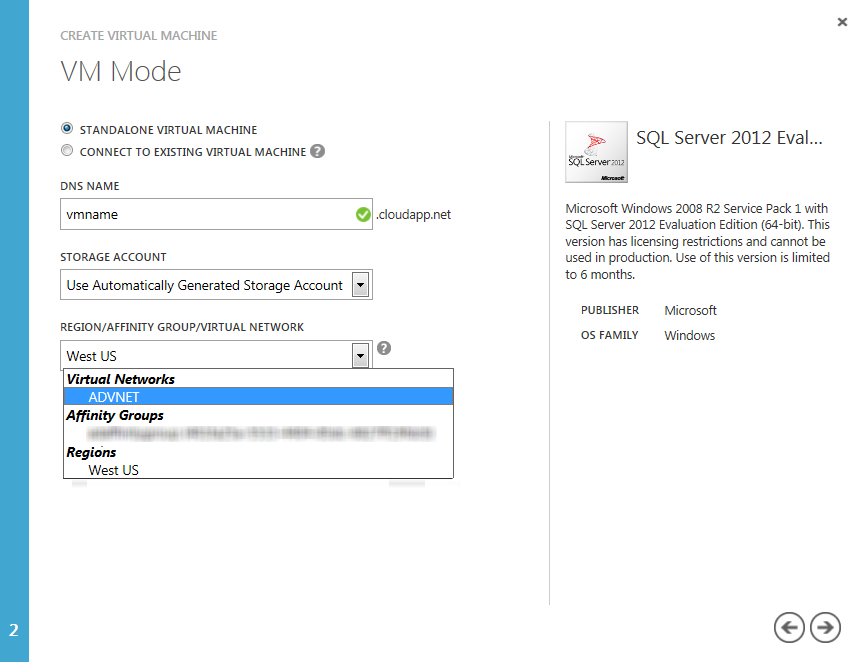
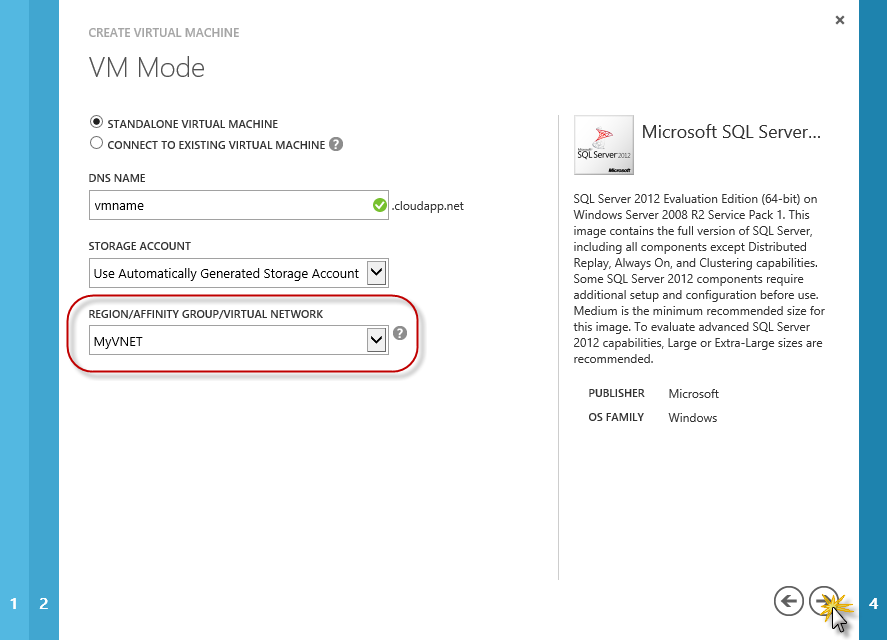
- Added section to create a virtual network.

Changed region(s): [[0.0, 0.0, 0.5436, 1.0], [0.6341, 0.0, 1.0, 1.0], [0.7549, 0.5938, 0.8153, 0.6562]]

diff --git a/HOL.md b/HOL.md
@@ -44,6 +44,49 @@ This hands-on lab includes the following exercises:
  
 Estimated time to complete this lab: **45 minutes**.
 
+<a name="GettingStarted"></a>
+### Getting Started - Configuring Virtual Networking ###
+
+For this lab, you will define a virtual network where you can assign the virtual machines to specific subnets. 
+
+<a name="Ex1Task1" />
+#### Task 1 - Creating an Affinity Group ####
+
+The first task is to create an affinity group for the Virtual Network.
+
+1. Open a browser a go to https://manage.windowsazure.com. When prompted, login with your **Windows Azure** credentials. In the Windows Azure portal, click **Networks**, **Affinity Groups** and at the bottom click **Create**.
+
+1. Name the affinity group _myag_, include a description and select a **Region**. Click the button to create the affinity group.
+
+	![Creating an Affinity Group](images/creating-an-affinity-group.png?raw=true)
+
+	_Creating an Affinity Group_
+
+<a name="Ex1Task2" />
+#### Task 2 - Creating a new Virtual Network ####
+
+The next step is to create a new virtual network to your subscription.
+
+1. In the Windows Azure Portal, click **Networks**, **Virtual Networks** and at the bottom click **Create**.
+
+1. Set a Name for the virtual network, for example _MyVNET_ along with the description and click the arrow button to continue.
+
+	![creating a new virtual network](images/creating-a-new-virtual-network.png?raw=true)
+
+	_Creating a new virtual network_
+
+1. Set the **Address Space** value to _192.168.0.0/16_ and add a subnet named _AppSubnet_ with a prefix of _192.168.1.0/24_.
+
+	![Adding an address space and subnets](images/adding-an-address-space-and-subnets.png?raw=true)
+
+	_Adding an address space and subnets_
+
+1. Leave default settings for DNS and click the finish button.
+
+	![Creating the Virtual Network](images/creating-the-virtual-network.png?raw=true "Creating the Virtual Network")
+
+	_Creating the Virtual Network_
+
 <a name="Exercise1" />
 ### Exercise 1: Creating a SQL Server VM ###
 
@@ -70,19 +113,23 @@ In this task, you will create a new Virtual Machine using the Windows Azure Port
 
 	![VM Configuration](images/vm-configuration.png?raw=true "VM Configuration")
  
-	_VM Configuration_
+	_Virtual Machine Configuration_
 
-1. In the **VM Mode** page, select **Standalone Virtual Machine** option, then a unique name for the **DNS Name**. Finally, select the **ADVNET** Virtual Network from the **Region/Affinity Group/Virtual Network** list and click **Next**.
+1. In the **VM Mode** page, select **Standalone Virtual Machine** option, then a unique name for the **DNS Name**. Finally, select the Virtual Network you created before, from the **Region/Affinity Group/Virtual Network** list and click **Next**.
 
 	![Selecting VM mode](images/selecting-vm-mode.png?raw=true "Selecting VM mode")
 
-1. In the **VM Options** page, select the **APPSUBNET** virtual network subnet and click the finish button to create the new VM
+	_Setting the Virtual Machine Mode_
+
+1. In the **VM Options** page, select the **APPSUBNET** virtual network subnet and click the finish button to create the new VM.
 
 	![VM Options](images/vm-options.png?raw=true "VM Options")
 
-	_VM Options_
+	_Setting the Virtual Machine Options_
 
-1. In the **Virtual Machines** section, you will see the Virtual Machine you created displaying a _provisioning_ status. Wait until it changes to _On_ in order to continue.
+1. In the **Virtual Machines** section, you will see the Virtual Machine you created displaying a _provisioning_ status. Wait until it changes to _Running_ in order to continue.
+
+	> **Note:** It will take from 8 to 10 minutes for the Virtual Machine to complete the provisioning process.
 
 <a name="Ex1Task2" />
 #### Task 2 - Configuring SQL Server 2012 Instance ####
@@ -287,7 +334,7 @@ In this task, you will change the connection string to point to the SQL Server i
 	````XML
 	<connectionStrings>
 		<add name="DefaultConnection" connectionString="Data Source=192.168.2.4;initial catalog=AdventureWorksLT2008R2;Uid=AzureStore;Password=Azure$123;MultipleActiveResultSets=True" providerName="System.Data.SqlClient" />
-    <add name="AdventureWorksEntities" connectionString="metadata=res://*/Models.AdventureWorks.csdl|res://*/Models.AdventureWorks.ssdl|res://*/Models.AdventureWorks.msl;provider=System.Data.SqlClient;provider connection string=&quot;data source=192.168.2.4;initial catalog=AdventureWorksLT2008R2;Uid=AzureStore;Password=Azure$123;multipleactiveresultsets=True;App=EntityFramework&quot;" providerName="System.Data.EntityClient" />
+		<add name="AdventureWorksEntities" connectionString="metadata=res://*/Models.AdventureWorks.csdl|res://*/Models.AdventureWorks.ssdl|res://*/Models.AdventureWorks.msl;provider=System.Data.SqlClient;provider connection string=&quot;data source=192.168.2.4;initial catalog=AdventureWorksLT2008R2;Uid=AzureStore;Password=Azure$123;multipleactiveresultsets=True;App=EntityFramework&quot;" providerName="System.Data.EntityClient" />
 	</connectionStrings>
 	````
 
@@ -304,7 +351,7 @@ In this task, you will change the connection string to point to the SQL Server i
     </ConfigurationSettings>
   </Role>
   <NetworkConfiguration>
-    <VirtualNetworkSite name="ADVNET" />
+    <VirtualNetworkSite name="MyVNET" />
     <AddressAssignments>
       <InstanceAddress roleName="AzureStore">
         <Subnets>
@@ -339,7 +386,7 @@ In this task, you will publish the Web Application to Windows Azure using Visual
 
 1. Click the **New** link located at the bottom of the page, select **Cloud Service** and then **Custom Create**.
 
-1. In the **Create Your Cloud Service** window, enter **AzureStore** in the **Url** field, select **adag** from the **Region/Affinity Group** selection list and check the **Deploy a Cloud Service package now** option.
+1. In the **Create Your Cloud Service** window, enter **AzureStore** in the **Url** field, select **myag** from the **Region/Affinity Group** selection list and check the **Deploy a Cloud Service package now** option.
 
 	![New Cloud Service](images/new-cloud-service5.png?raw=true "New Cloud Service")
 
